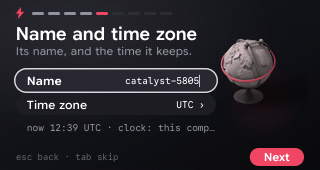
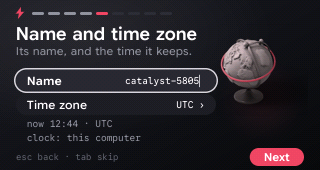
Setup's name page: the time and the clock's source on two lines, so neither is cut

Changed region(s): [[0.0625, 0.7059, 0.4688, 0.8529], [0.5, 0.7353, 0.6562, 0.7941]]

diff --git a/userland/apps/shell/src/setup.rs b/userland/apps/shell/src/setup.rs
@@ -1342,10 +1342,14 @@ impl Setup {
         self.row(g, 1, ROWS_TOP + 30.0, row_w, 21.0, "Time zone", &value, true);
         let (a, dx, dy) = self.reveal(4);
         let now = chrono::Local::now().format(if g.clock.0 { "%H:%M" } else { "%-I:%M %p" }).to_string().to_lowercase();
-        let offset = crate::device::zone_offset(&zone).map(|o| format!(" {o}")).unwrap_or_default();
-        let line = format!("now {now}{offset} · clock: {}", crate::device::clock_note());
-        let line = g.text.fit(&line, &TextStyle::code(9.5), row_w - 11.0);
-        g.text_alpha(LEFT + 11.0 + dx, ROWS_TOP + 64.0 + dy, &line, TextStyle::code(9.5), INK_THIN, a);
+        // Two short lines, so neither has to be cut in the column: the time
+        // and its offset, then where the clock's time came from.
+        let offset = crate::device::zone_offset(&zone).map(|o| format!(" · {o}")).unwrap_or_default();
+        let style = TextStyle::code(9.5);
+        for (k, line) in [format!("now {now}{offset}"), format!("clock: {}", crate::device::clock_note())].iter().enumerate() {
+            let line = g.text.fit(line, &style, row_w - 11.0);
+            g.text_alpha(LEFT + 11.0 + dx, ROWS_TOP + 60.0 + k as f32 * 14.0 + dy, &line, style, INK_THIN, a);
+        }
         self.bar(g, "esc back · tab skip");
     }
 }
